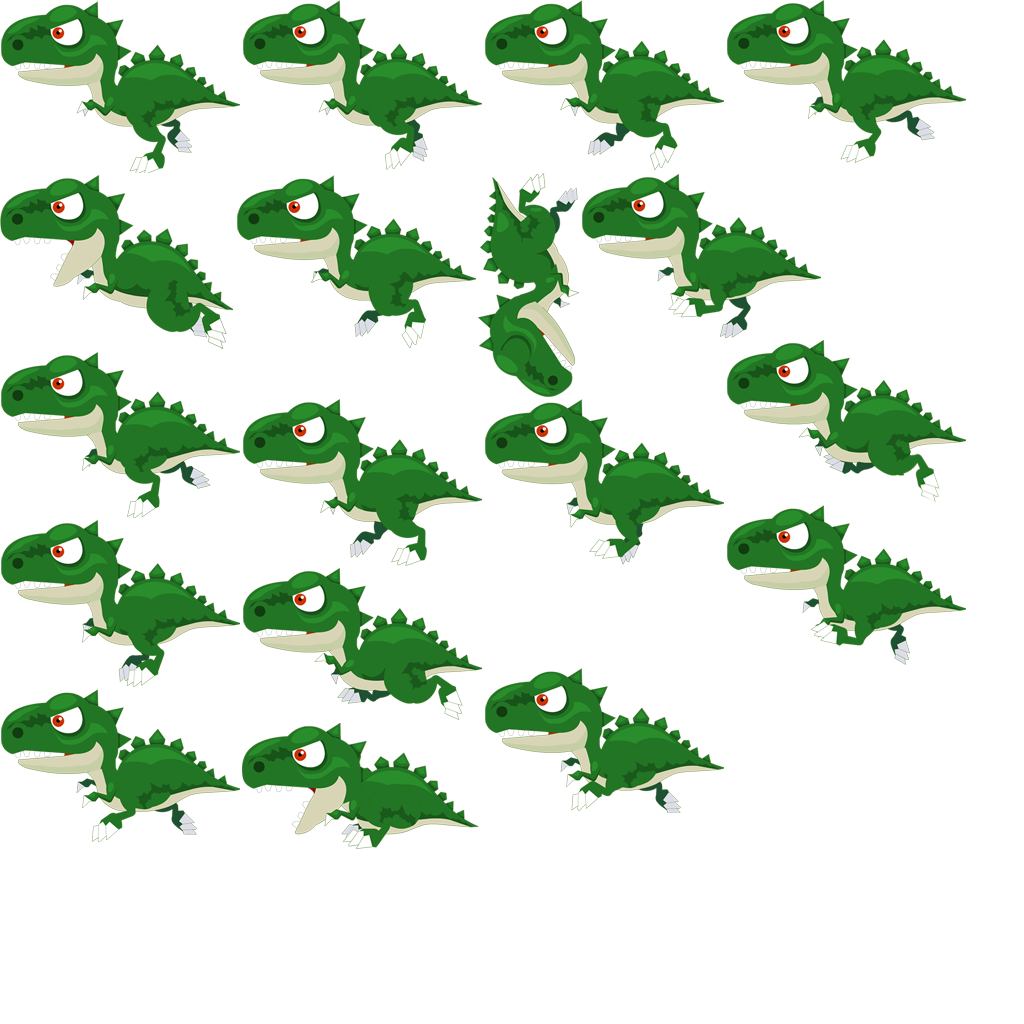
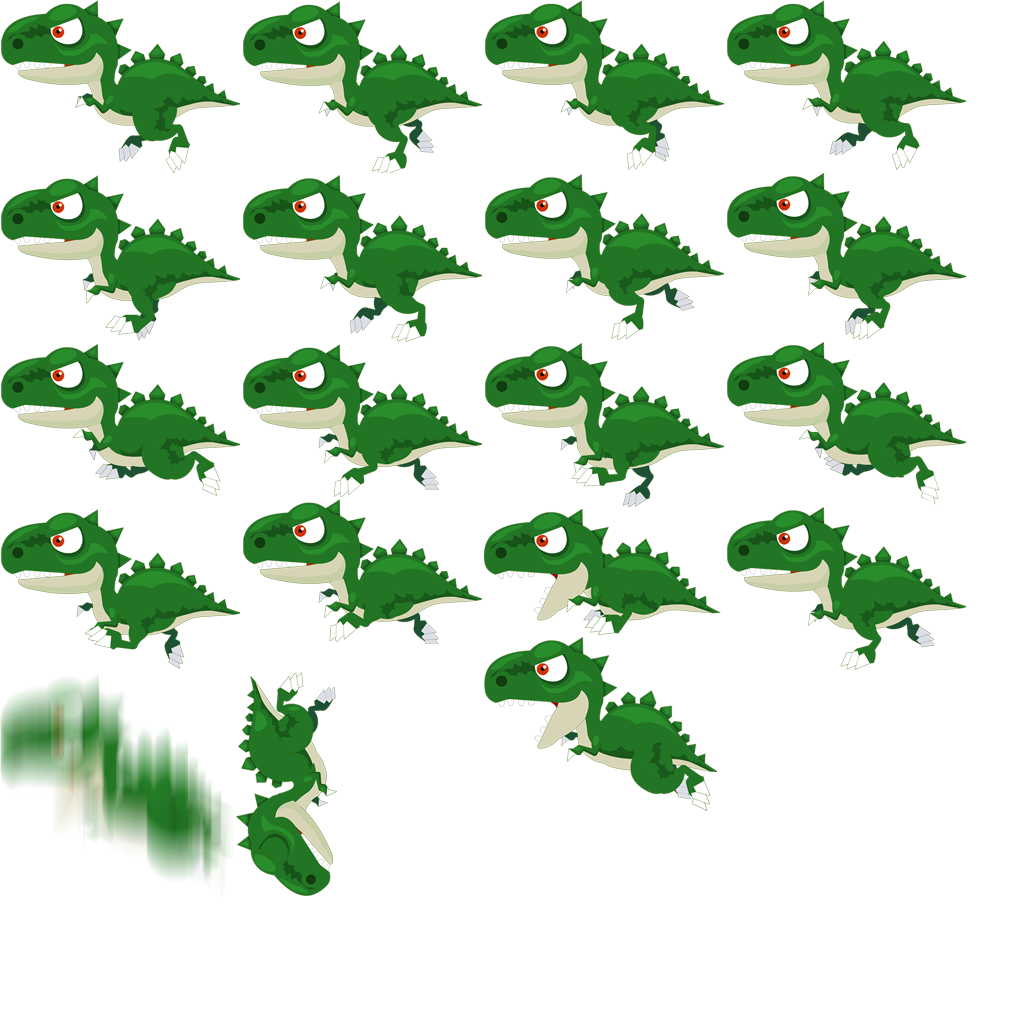
add a frame of disapear

diff --git a/Classes/MainLayer.cpp b/Classes/MainLayer.cpp
@@ -184,13 +184,13 @@ void MainLayer::update(float delta)
 			//计分
 			Counter *counter = Counter::sharedCounter();
 			(*counter)++;
-
-			left->runAction(CCFadeOut::create(0.8f));
-			right->runAction(
-					CCSequence::createWithTwoActions(CCFadeOut::create(0.8f),
-							CCCallFunc::create(this,
-									callfunc_selector(
-											MainLayer::reCreateNewRole))));
+			this->reCreateNewRole();
+//			left->runAction(CCFadeOut::create(0.8f));
+//			right->runAction(
+//					CCSequence::createWithTwoActions(CCFadeOut::create(0.8f),
+//							CCCallFunc::create(this,
+//									callfunc_selector(
+//											MainLayer::reCreateNewRole))));
 		}
 	}
 
@@ -250,8 +250,8 @@ void MainLayer::playDropAnimation()
 	right->stopAllActions();
 	CCPoint la = left->getAnchorPoint();
 	CCPoint ra = right->getAnchorPoint();
-	left->initWithSpriteFrameName("ultraman_big_18.png");
-	right->initWithSpriteFrameName("dragon_big_18.png");
+	left->initWithSpriteFrameName("ultraman_big_19.png");
+	right->initWithSpriteFrameName("dragon_big_19.png");
 	left->setAnchorPoint(la);
 	right->setAnchorPoint(ra);
 

diff --git a/Classes/AppDelegate.cpp b/Classes/AppDelegate.cpp
@@ -160,8 +160,8 @@ void AppDelegate::loadResources() const
 	/*-- 怪兽动画 --*/
 	frameCache->addSpriteFramesWithFile("dragon_big.plist");
 	CCArray *dragons = CCArray::createWithCapacity(15);
-	CCArray *dragonjumps = CCArray::createWithCapacity(2);
-	for (unsigned int i = 0; i < 17; i++)
+	CCArray *dragonjumps = CCArray::createWithCapacity(3);
+	for (unsigned int i = 0; i < 18; i++)
 	{
 		sprintf(str, "dragon_big_%d.png", i + 1);
 		if (i < 15)
@@ -183,8 +183,8 @@ void AppDelegate::loadResources() const
 	/*-- 奥特曼动画 --*/
 	frameCache->addSpriteFramesWithFile("ultraman_big.plist");
 	CCArray *ultramans = CCArray::createWithCapacity(15);
-	CCArray *ultramanjumps = CCArray::createWithCapacity(2);
-	for (unsigned int i = 0; i < 17; i++)
+	CCArray *ultramanjumps = CCArray::createWithCapacity(3);
+	for (unsigned int i = 0; i < 18; i++)
 	{
 		sprintf(str, "ultraman_big_%d.png", i + 1);
 		if (i < 15)
